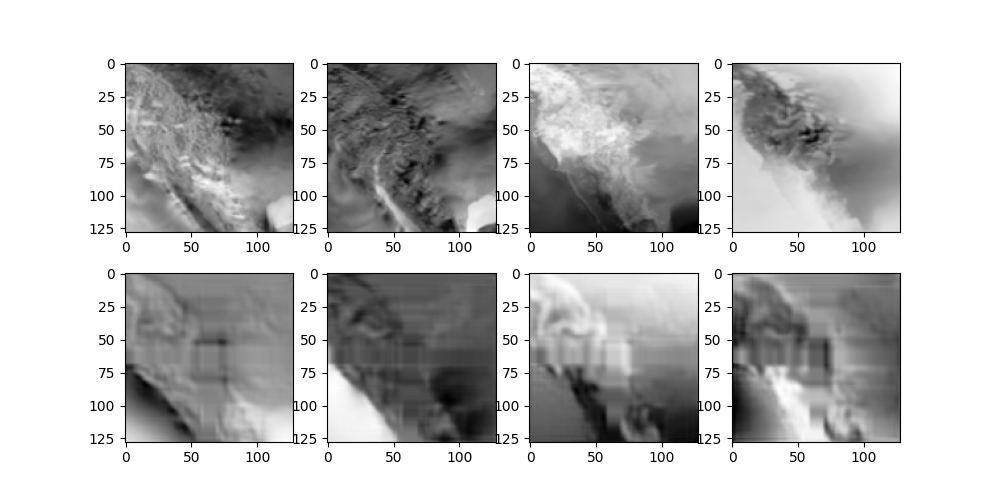
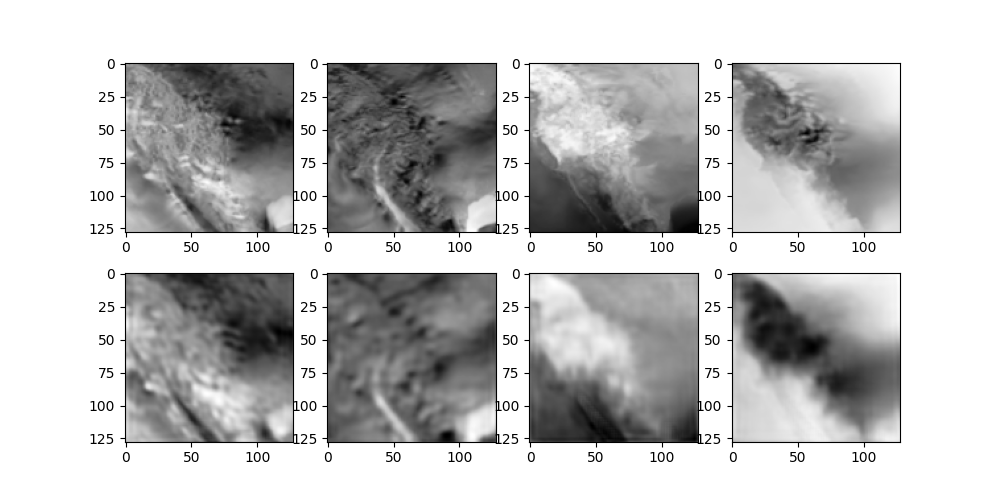
Train 4 channel vqvae on HR for 20 epochs

Changed region(s): [[0.527, 0.54, 0.899, 0.9], [0.124, 0.54, 0.496, 0.9]]

diff --git a/plot-losses.py b/plot-losses.py
@@ -1,6 +1,7 @@
 import sys
 import pandas as pd
 import matplotlib.pyplot as plt
+import matplotlib.ticker as ticker
 import seaborn as sns
 
 
@@ -17,5 +18,7 @@ if __name__ == "__main__":
     fig = sns.lineplot(data=df)
     fig.set_title(f"Losses for {model_name} model training")
     plt.axvline(best_val_loss_index, 0, 1, linestyle="--", color="green")
+
+    fig.xaxis.set_major_locator(ticker.MaxNLocator(integer=True))
     
     plt.savefig(output_file, bbox_inches="tight")
